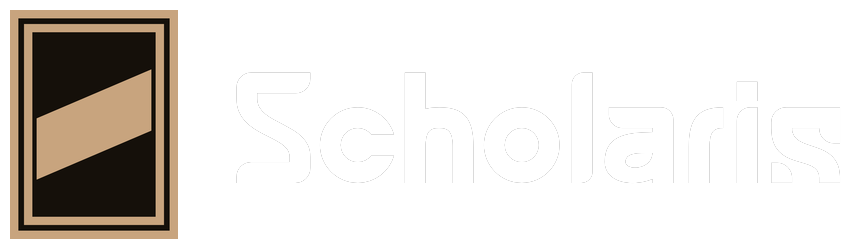
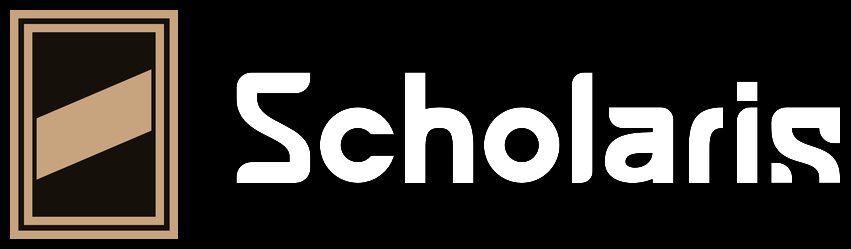
Fix: welcome email was unreadable — cells had no background
Black was set on the two tables but not on their cells: 2 of 18 carried a
background. Outlook and several other clients do not pass a table's background
down to its cells, so every cell fell back to the client's white default. All
the type is light and the masthead and headline were white-on-transparent PNGs,
so the entire email disappeared onto white, leaving padded blocks.

- every cell now carries its own bgcolor attribute and inline background-color
- masthead and headline are flattened onto black, so a transparent PNG of white
  type can no longer vanish even if a cell background is ignored; both also got
  smaller (19->13.5 KB, 13->9 KB)
- a test asserts every cell has a background, so this cannot return quietly

diff --git a/ifyscs/app/templates/email/welcome_credentials.html b/ifyscs/app/templates/email/welcome_credentials.html
@@ -48,39 +48,39 @@
 </div>
 
 <table role="presentation" cellpadding="0" cellspacing="0" border="0" width="100%" bgcolor="#000000" style="background:#000000;">
-<tr><td align="center" style="padding:0;">
+<tr><td bgcolor="#000000" align="center" style="background-color:#000000;padding:0;">
 
 <table role="presentation" cellpadding="0" cellspacing="0" border="0" width="600" style="width:600px;max-width:600px;" bgcolor="#000000">
 
-  <tr><td align="center" style="padding:22px 24px 0;font-family:Arial,Helvetica,sans-serif;font-size:12px;color:#8b8b8b;letter-spacing:.02em;">
+  <tr><td bgcolor="#000000" align="center" style="background-color:#000000;padding:22px 24px 0;font-family:Arial,Helvetica,sans-serif;font-size:12px;color:#8b8b8b;letter-spacing:.02em;">
     Your Scholaris account is ready.
   </td></tr>
 
-  <tr><td align="center" class="sc-mast" style="padding:26px 24px 28px;">
+  <tr><td bgcolor="#000000" align="center" class="sc-mast" style="background-color:#000000;padding:26px 24px 28px;">
     <img src="{{ assets.masthead }}" width="286" alt="Scholaris" class="sc-mast-img" style="width:286px;max-width:100%;height:auto;margin:0 auto;">
   </td></tr>
 
-  <tr><td align="center" style="padding:0;">
+  <tr><td bgcolor="#000000" align="center" style="background-color:#000000;padding:0;">
     <img src="{{ assets.hero }}" width="600" alt="Welcome." style="width:100%;max-width:600px;height:auto;">
   </td></tr>
 
-  <tr><td align="center" class="sc-head" style="padding:44px 24px 0;">
+  <tr><td bgcolor="#000000" align="center" class="sc-head" style="background-color:#000000;padding:44px 24px 0;">
     <img src="{{ assets.headline }}" width="318" alt="Welcome to Scholaris" class="sc-head-img" style="width:318px;max-width:100%;height:auto;margin:0 auto;">
   </td></tr>
 
-  <tr><td align="center" class="sc-sub" style="padding:18px 44px 0;font-family:Arial,Helvetica,sans-serif;font-size:14px;color:#c4c4c4;line-height:1.65;">
+  <tr><td bgcolor="#000000" align="center" class="sc-sub" style="background-color:#000000;padding:18px 44px 0;font-family:Arial,Helvetica,sans-serif;font-size:14px;color:#c4c4c4;line-height:1.65;">
     Hi {{ user.full_name.split()[0] if user.full_name else 'there' }} — your {{ user.role }} account has been created.
     Everything you need to sign in for the first time is below.
   </td></tr>
 
-  <tr><td class="sc-boxpad" style="padding:34px 32px 0;">
+  <tr><td bgcolor="#000000" class="sc-boxpad" style="background-color:#000000;padding:34px 32px 0;">
     <table role="presentation" cellpadding="0" cellspacing="0" border="0" width="100%" style="border:2px solid #ffffff;">
-      <tr><td align="center" style="padding:24px 26px 20px;font-family:Arial,Helvetica,sans-serif;">
+      <tr><td bgcolor="#000000" align="center" style="background-color:#000000;padding:24px 26px 20px;font-family:Arial,Helvetica,sans-serif;">
         <div style="font-size:11px;font-weight:700;color:#8b8b8b;letter-spacing:.16em;text-transform:uppercase;">Email</div>
         <div style="font-size:15px;color:#ffffff;padding-top:7px;word-break:break-all;">{{ user.email }}</div>
       </td></tr>
-      <tr><td style="border-top:1px solid #333333;font-size:0;line-height:0;height:1px;">&nbsp;</td></tr>
-      <tr><td align="center" style="padding:22px 26px 26px;font-family:Arial,Helvetica,sans-serif;">
+      <tr><td bgcolor="#000000" style="background-color:#000000;border-top:1px solid #333333;font-size:0;line-height:0;height:1px;">&nbsp;</td></tr>
+      <tr><td bgcolor="#000000" align="center" style="background-color:#000000;padding:22px 26px 26px;font-family:Arial,Helvetica,sans-serif;">
         <div style="font-size:11px;font-weight:700;color:#8b8b8b;letter-spacing:.16em;text-transform:uppercase;">Temporary password</div>
         {# Monospace so a capital I and a lowercase l cannot be confused when retyped. #}
         <div class="sc-pw" style="font-family:'Courier New',Courier,monospace;font-size:30px;font-weight:700;color:#ffffff;letter-spacing:.07em;padding-top:9px;word-break:break-all;">{{ plain_password }}</div>
@@ -88,12 +88,12 @@
     </table>
   </td></tr>
 
-  <tr><td align="center" class="sc-use" style="padding:22px 40px 0;font-family:Arial,Helvetica,sans-serif;font-size:13.5px;color:#c4c4c4;line-height:1.6;">
+  <tr><td bgcolor="#000000" align="center" class="sc-use" style="background-color:#000000;padding:22px 40px 0;font-family:Arial,Helvetica,sans-serif;font-size:13.5px;color:#c4c4c4;line-height:1.6;">
     <strong style="color:#ffffff;">Use this password the first time you sign in.</strong>
     You'll be asked to change it straight away.
   </td></tr>
 
-  <tr><td align="center" style="padding:30px 24px 0;">
+  <tr><td bgcolor="#000000" align="center" style="background-color:#000000;padding:30px 24px 0;">
     <table role="presentation" cellpadding="0" cellspacing="0" border="0" align="center">
       <tr><td class="sc-cta" bgcolor="#ffffff" style="background:#ffffff;">
         <a href="{{ login_url }}" style="display:block;padding:17px 44px;font-family:Arial,Helvetica,sans-serif;font-size:13px;font-weight:800;color:#000000;letter-spacing:.12em;">SIGN IN TO SCHOLARIS</a>
@@ -101,22 +101,22 @@
     </table>
   </td></tr>
 
-  <tr><td align="center" class="sc-tag" style="padding:52px 24px 46px;font-family:Georgia,'Times New Roman',serif;font-style:italic;font-size:19px;color:#8b8b8b;">
+  <tr><td bgcolor="#000000" align="center" class="sc-tag" style="background-color:#000000;padding:52px 24px 46px;font-family:Georgia,'Times New Roman',serif;font-style:italic;font-size:19px;color:#8b8b8b;">
     Your project, on track.
   </td></tr>
 
-  <tr><td style="border-top:1px solid #262626;font-size:0;line-height:0;height:1px;">&nbsp;</td></tr>
+  <tr><td bgcolor="#000000" style="background-color:#000000;border-top:1px solid #262626;font-size:0;line-height:0;height:1px;">&nbsp;</td></tr>
 
-  <tr><td align="center" class="sc-nav" style="padding:24px;font-family:Arial,Helvetica,sans-serif;">
+  <tr><td bgcolor="#000000" align="center" class="sc-nav" style="background-color:#000000;padding:24px;font-family:Arial,Helvetica,sans-serif;">
     <a href="{{ site.privacy }}" style="font-size:11px;font-weight:700;color:#9a9a9a;letter-spacing:.13em;">PRIVACY</a>
     <span style="color:#3a3a3a;padding:0 12px;font-size:11px;">&middot;</span>
     <a href="{{ site.terms }}" style="font-size:11px;font-weight:700;color:#9a9a9a;letter-spacing:.13em;">TERMS</a>
   </td></tr>
 
-  <tr><td style="border-top:1px solid #262626;font-size:0;line-height:0;height:1px;">&nbsp;</td></tr>
+  <tr><td bgcolor="#000000" style="background-color:#000000;border-top:1px solid #262626;font-size:0;line-height:0;height:1px;">&nbsp;</td></tr>
 
   {# #8b8b8b clears 4.5:1 on black; the #6c6c6c this replaced sat at about 4.06. #}
-  <tr><td align="center" class="sc-legal" style="padding:22px 32px 30px;font-family:Arial,Helvetica,sans-serif;font-size:12px;color:#8b8b8b;line-height:1.7;">
+  <tr><td bgcolor="#000000" align="center" class="sc-legal" style="background-color:#000000;padding:22px 32px 30px;font-family:Arial,Helvetica,sans-serif;font-size:12px;color:#8b8b8b;line-height:1.7;">
     &copy; {{ year }} Scholaris &middot; Final Year Project Supervision &amp; Collaboration<br>
     You're receiving this because an administrator created a Scholaris account for you.
   </td></tr>
